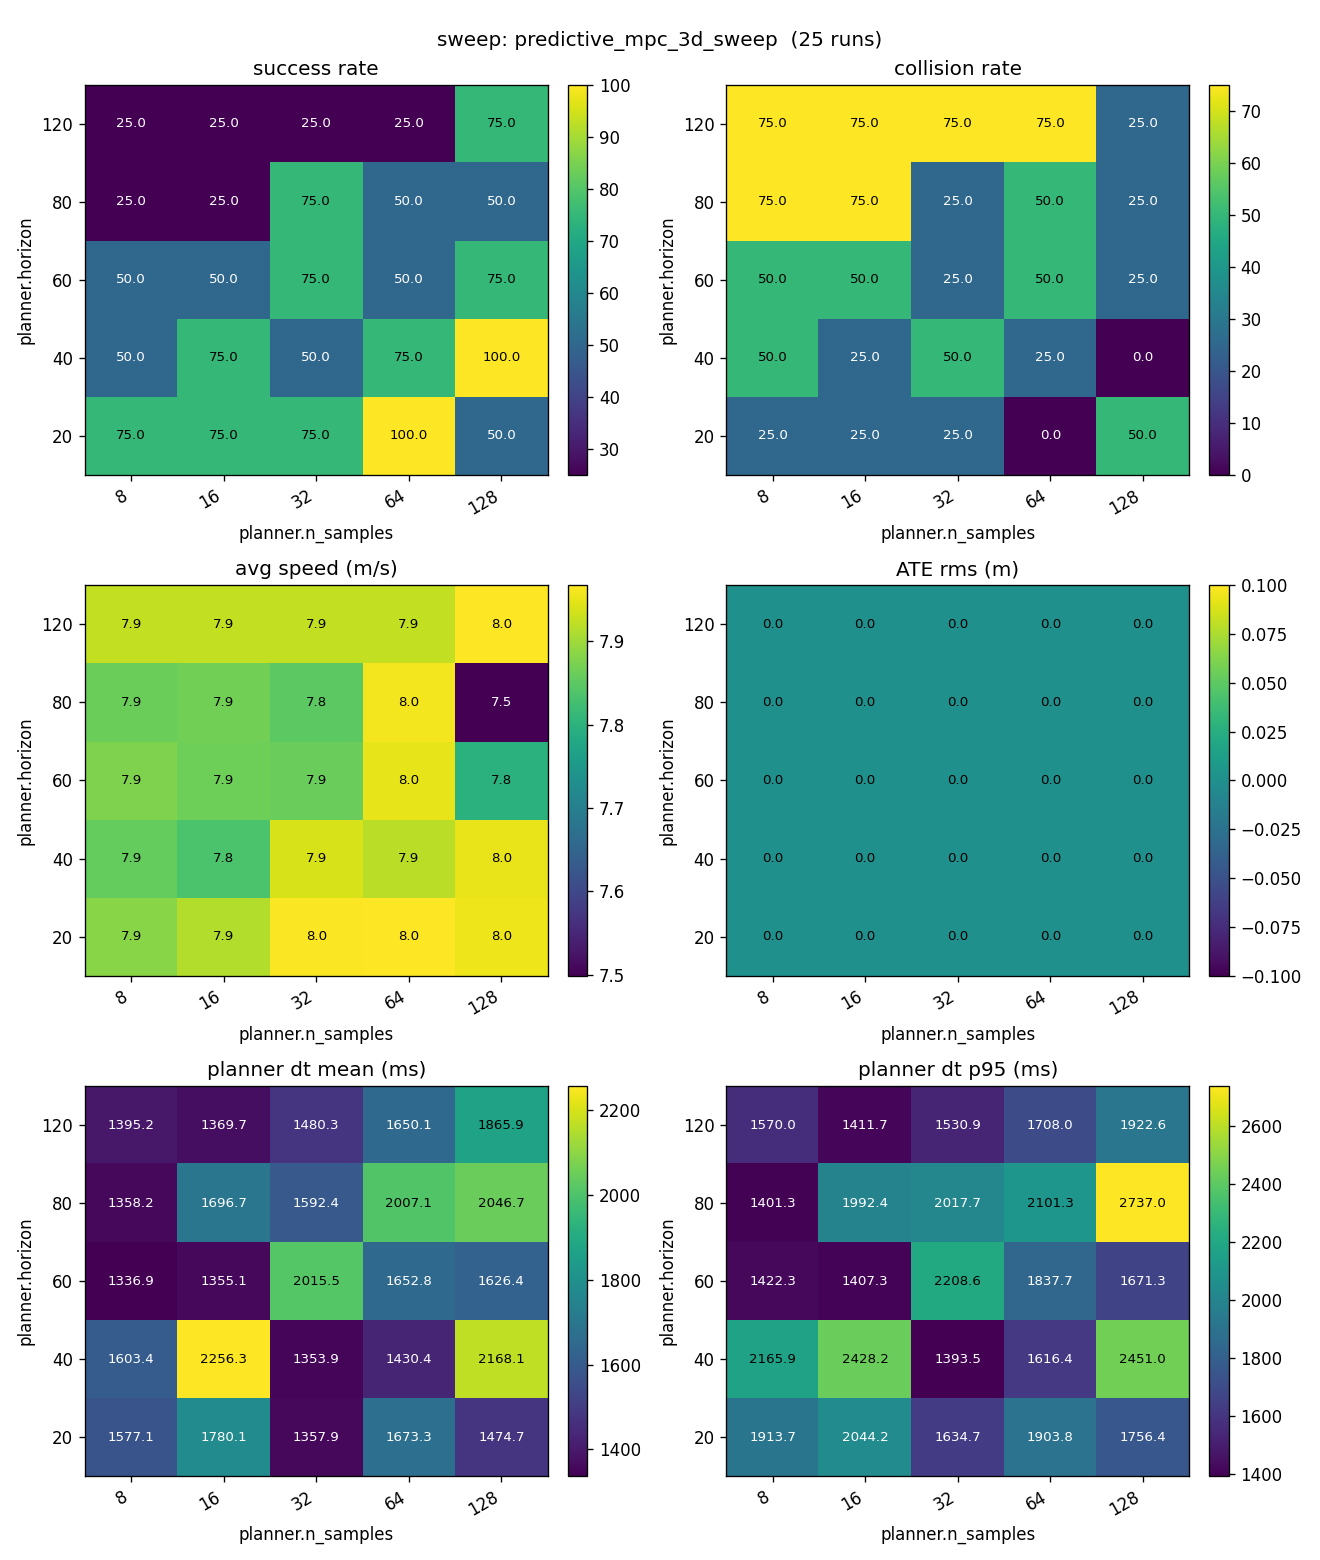
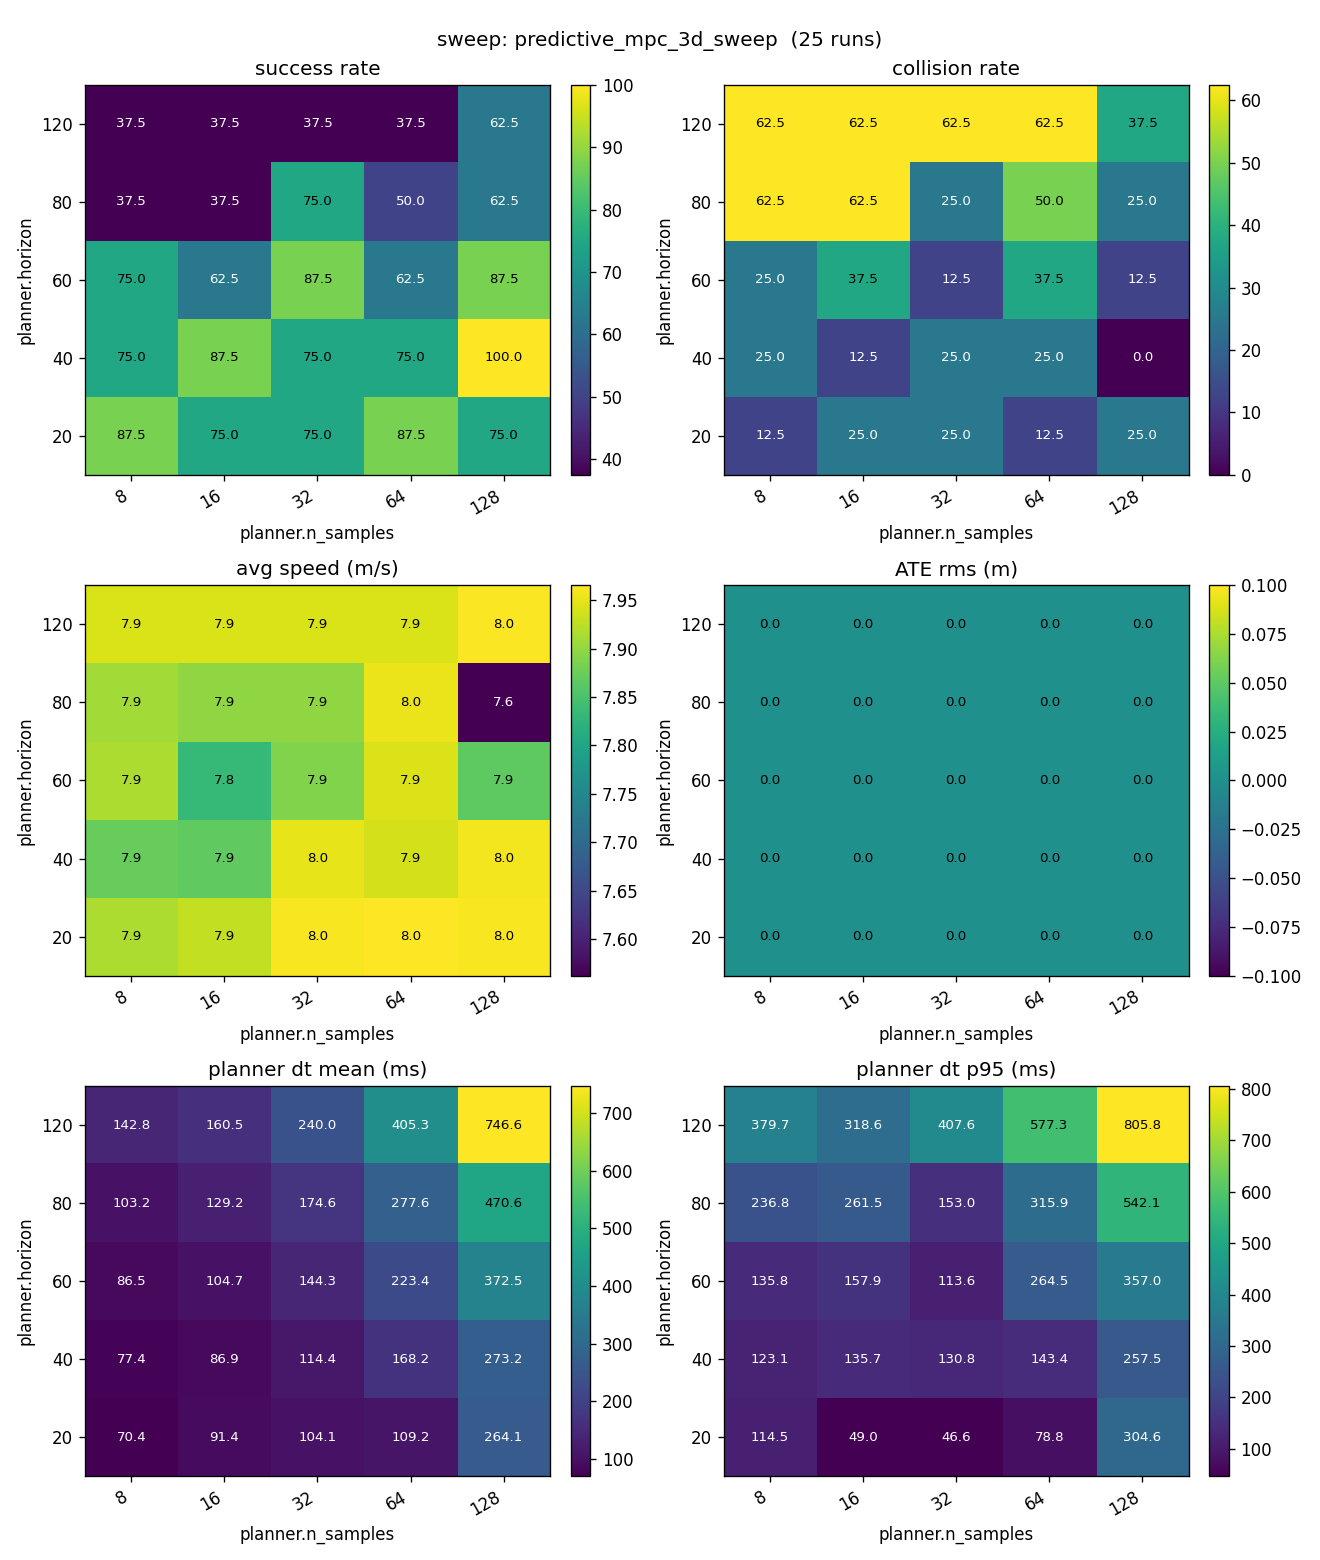
3D Pareto re-validated post-cache: n_samples preference flips vs 2D
Re-ran the n_samples x horizon sweep on the 3D voxel_world after the
SamplingMPCPlanner cost-to-go cache landed. Plan_dt drops from 1.3-2.2 s
across every cell to 70-750 ms — same order of magnitude as 2D. With
n=8 episodes (vs the prior n=4) Wilson half-widths tighten to ±17 pp.

Validated table:

  n_samp \ horizon   20   40   60   80  120
            8        88   75   75   38   38
           16        75   88   62   38   38
           32        75   75   88   75   38
           64        88   75   62   50   38
          128        75  100   88   62   62

Findings:
- The Pareto frontier shifts to LOWER n_samples in 3D. n=8/h=20 hits
  88% / 70 ms — outperforms the 2D-optimal config (n=16/h=20 -> 75%
  in 3D). Fibonacci-sphere sampling covers 3D directions densely
  enough that fewer per-step samples suffice; compute is better spent
  on horizon depth, opposite of 2D.
- The 'longer rollouts hurt' effect partly transfers — 2D drops
  100 -> 35 with horizon, 3D drops 75 -> 38. The escape volume softens
  but does not eliminate the reach-goal-bonus overshoot.
- The 3D plan_dt blow-up reported in the previous commit was a missing
  cache, not an inherent 3D problem.

Updates the YAML header table, comments, and findings. README's 3D
section retitled and rewritten around the n_samples flip and the
cache-fixes-3D-compute story; heatmap PNG regenerated.

diff --git a/README.md b/README.md
@@ -214,32 +214,38 @@ Sole Pareto-optimal point: **n_samples=16, horizon=20 → 100 % / 51 ms**.
 Longer rollouts actively *hurt* success — the reach-goal bonus fires
 less often when the rollout overshoots the goal radius mid-trajectory.
 
-### 3D Pareto: the 2D conclusions partly transfer, the compute budget does not
+### 3D Pareto: the n_samples preference flips
 
 `examples/exp_3d_predictive.yaml` — the same n_samples × horizon sweep on
-a 3D `voxel_world` (40×40×12, three bouncing 3D dynamic obstacles, n=4):
+a 3D `voxel_world` (40×40×12, three bouncing 3D dynamic obstacles, n=8
+post-cache):
 
 <p align="center">
 <img src="docs/images/sweep_pareto_3d.png" alt="6-panel Pareto sweep on the 3D voxel world: success / collision / avg speed / ATE / planner_dt mean / planner_dt p95" width="640">
 </p>
 
-Two findings vs the 2D analogue:
+Findings vs the 2D analogue:
 
-- **Plan-time blow-up.** Every cell exceeds **1.3 s per replan** (vs
-  51 ms at the 2D Pareto cell), so with `replan_period=0.2 s` the
-  planner is uniformly CPU-saturated. The 2D-Pareto-optimal config
-  (n_samples=16, horizon=20) lands at ~1.78 s in 3D — 8.9× the replan
-  budget. Take-away: compute budget does *not* transfer across
-  dimensionality.
-- **The "longer rollouts hurt" effect partly transfers.** 2D shows a
-  clean monotonic drop with horizon (100 → 35 %); 3D rows stay much
-  flatter (75 → 25-75 %) — the wider escape volume masks the
-  reach-goal-bonus overshoot artifact that hurt 2D MPC at long horizons.
+- **The Pareto frontier shifts to lower n_samples.** The 2D-optimal
+  config (n=16, h=20 → 100 % / 51 ms in 2D) lands at only 75 % / 91 ms
+  in 3D. The strongest 3D cells are **n=8, h=20 → 88 % / 70 ms** and
+  n=128, h=40 → 100 % / 273 ms. Fibonacci-sphere sampling already
+  covers the 3D escape directions densely enough that fewer per-step
+  samples suffice — compute is better spent on horizon depth, opposite
+  of 2D's preference.
+- **The "longer rollouts hurt" effect partly transfers.** 2D drops
+  monotonically with horizon (100 → 35 %); 3D drops more gently (most
+  rows stay 75 → 38 %), but the trend is the same. The 3D escape volume
+  softens but does not eliminate the reach-goal-bonus overshoot.
+- **The 3D plan_dt blow-up was a Dijkstra artifact.** A first pass had
+  every cell at 1.3-2.2 s — too slow to fit `replan_period=0.2 s`. The
+  static cost-to-go cache (added to `SamplingMPCPlanner`) brought 3D
+  plan_dt back to the same order of magnitude as 2D (70-750 ms across
+  the grid), making this sweep and the cliff sweeps actually tractable.
 
 Methodological transfer: re-validate Pareto in every dimensionality.
-A planner config that is Pareto-optimal in 2D is not automatically
-optimal in 3D — and even if the success ceiling moves modestly, the
-compute envelope can blow through the replan period entirely.
+n_samples preference flips, the compute envelope changes, and what
+looked like a CPU-saturation cliff in 3D was actually a missing cache.
 
 ### Pareto config materially rewrites prior conclusions
 
